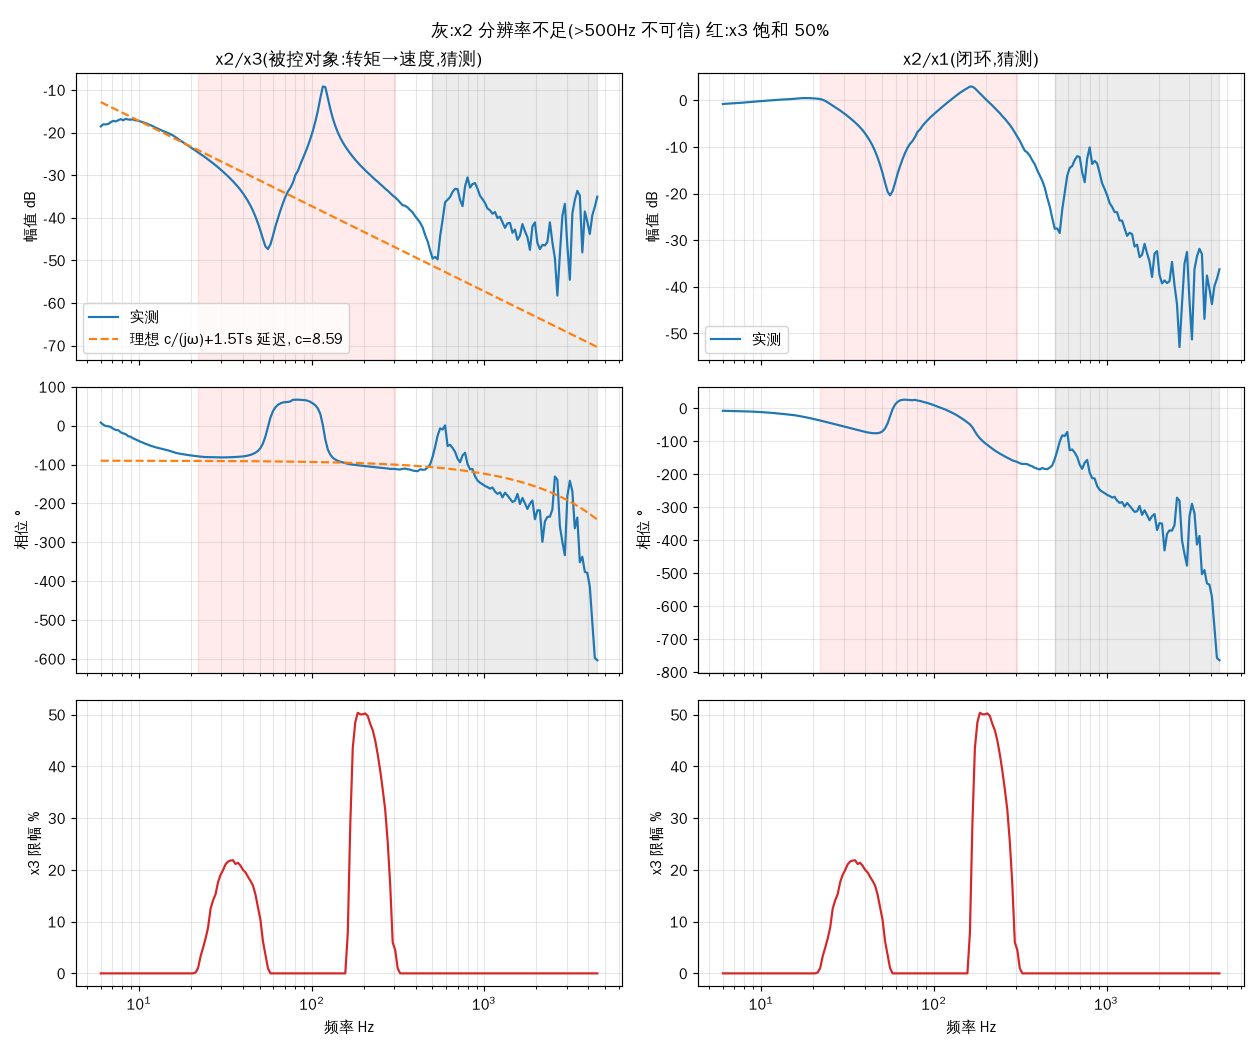
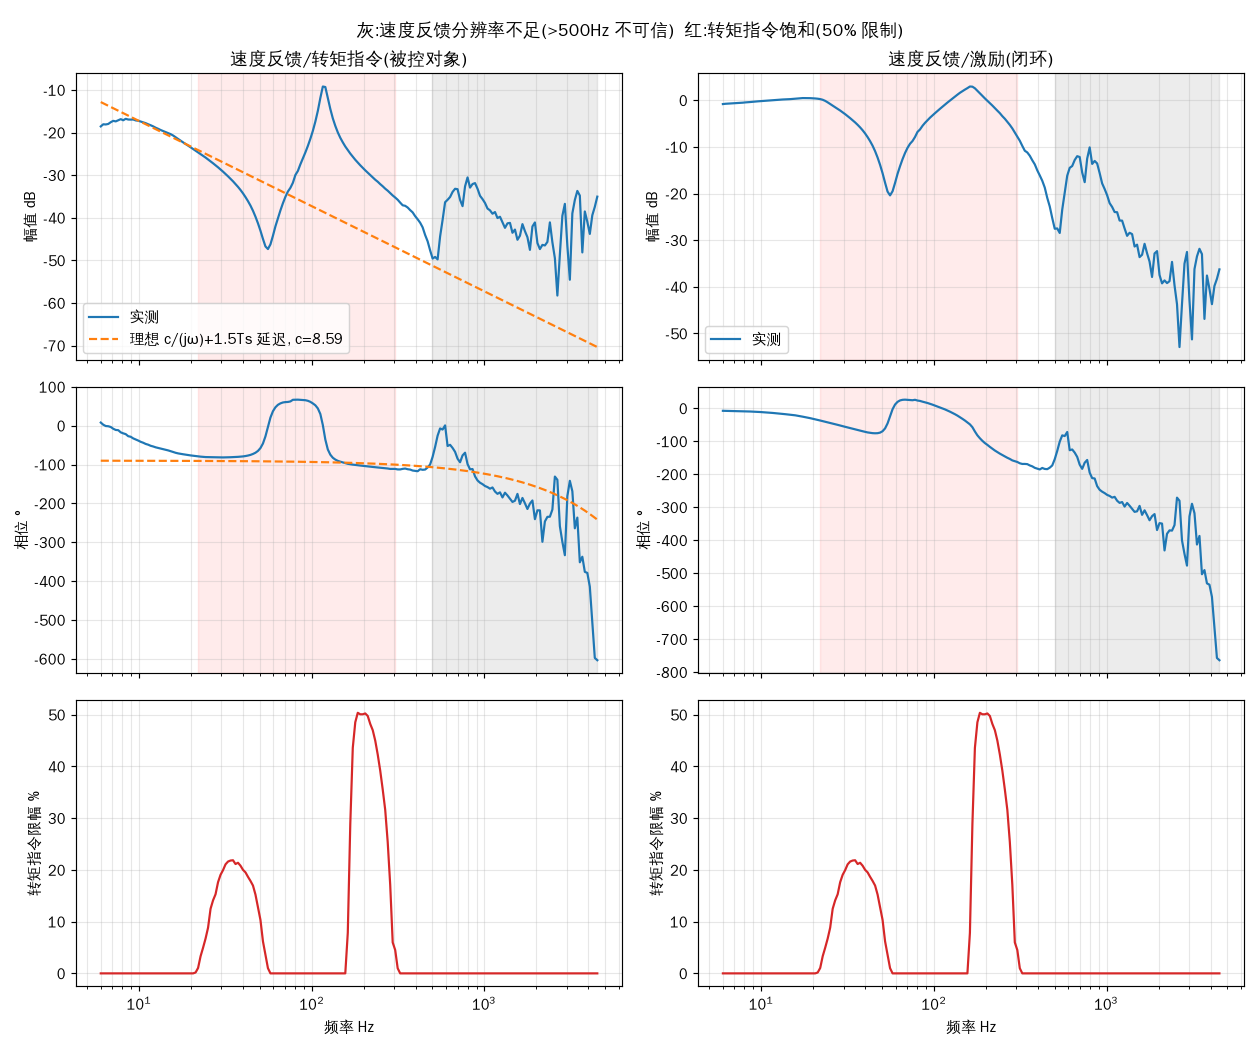
Use descriptive Chinese labels instead of x1/x2/x3 in plots
Claude-Session: https://claude.ai/code/session_01PxevCnqB8UYuwWaCSZuAZJ

Changed region(s): [[0.1857, 0.0, 0.8357, 0.061], [0.4952, 0.7619, 0.5262, 0.8533], [0.0, 0.7619, 0.031, 0.8533]]

diff --git a/out/sat_bode_compare.py b/out/sat_bode_compare.py
@@ -74,29 +74,29 @@ gs = fig.add_gridspec(4, 1, height_ratios=[1, .8, 1.5, .8], hspace=.5)
 ax = fig.add_subplot(gs[0])
 clip = np.abs(x3) >= thr
 ax.plot(t, x3, lw=.4, color=BLUE)
-ax.plot(t[clip], x3[clip], '.', ms=1.5, color=RED, label='clipped samples')
-ax.axhline(limit, color=RED, ls='--', lw=1); ax.axhline(-limit, color=RED, ls='--', lw=1, label=f'limit ±{limit:.3f}')
-ax.set(xlabel='t [s]', ylabel='x3', title='x3 (torque command) in time domain'); ax.legend(loc='upper right')
+ax.plot(t[clip], x3[clip], '.', ms=1.5, color=RED, label='被限幅的采样点')
+ax.axhline(limit, color=RED, ls='--', lw=1); ax.axhline(-limit, color=RED, ls='--', lw=1, label=f'转矩限制 ±{limit:.3f}')
+ax.set(xlabel='时间 [s]', ylabel='转矩指令', title='转矩指令时域波形'); ax.legend(loc='upper right')
 
 ax = fig.add_subplot(gs[1]); ax.semilogx(fq, 100 * sat, color=RED, lw=1.5); band(ax)
-ax.set(ylabel='clipped %', title='Fraction of x3 samples on the limit, per frequency')
+ax.set(ylabel='限幅占比 %', title='各频率处转矩指令被限幅的采样点占比')
 
 ax = fig.add_subplot(gs[2]); band(ax)
-ax.semilogx(fq, db(H31), color=BLUE, lw=1.6, label='x3/x1 measured (with saturation)')
-ax.semilogx(fq, db(Hc31), color=ORANGE, lw=1.6, ls='--', label='x3/x1 corrected (describing function)')
-ax.set(ylabel='magnitude [dB]', title='x3/x1 magnitude: measured vs corrected'); ax.legend(loc='upper right')
+ax.semilogx(fq, db(H31), color=BLUE, lw=1.6, label='实测(含限幅影响)')
+ax.semilogx(fq, db(Hc31), color=ORANGE, lw=1.6, ls='--', label='按限幅修正后(描述函数估算)')
+ax.set(ylabel='幅值 [dB]', title='转矩指令/激励 幅频:实测 vs 修正'); ax.legend(loc='upper right')
 ax.annotate(f'{err.max():.1f} dB', (fq[err.argmax()], db(Hc31)[err.argmax()]), (fq[err.argmax()] * 1.6, db(Hc31)[err.argmax()] - 10),
             arrowprops=dict(arrowstyle='-', color=GRAY), color='#222')
 
 ax = fig.add_subplot(gs[3]); band(ax); ax.semilogx(fq, err, color='#222', lw=1.5)
-ax.set(xlabel='Frequency [Hz]', ylabel='dB', title='Estimated magnitude error caused by saturation')
+ax.set(xlabel='频率 [Hz]', ylabel='dB', title='限幅造成的幅值误差(估算)')
 fig.savefig('sat_bode_compare.png', dpi=110, bbox_inches='tight')
 
 # second figure: which curves are affected
 fig2, axs = plt.subplots(2, 2, figsize=(11, 7), sharex=True)
-for j, (H, nm) in enumerate(((H23, 'x2/x3  plant (uses the actual clipped torque)'), (H21, 'x2/x1  closed loop (affected by clipping)'))):
-    axs[0, j].semilogx(fq, db(H), color=BLUE, lw=1.5); axs[0, j].set(title=nm, ylabel='magnitude [dB]')
-    axs[1, j].semilogx(fq, np.degrees(np.unwrap(np.angle(H))), color=BLUE, lw=1.5); axs[1, j].set(ylabel='phase [deg]', xlabel='Frequency [Hz]')
+for j, (H, nm) in enumerate(((H23, '速度反馈/转矩指令(被控对象,用的是实际被限幅的转矩)'), (H21, '速度反馈/激励(闭环,受限幅影响)'))):
+    axs[0, j].semilogx(fq, db(H), color=BLUE, lw=1.5); axs[0, j].set(title=nm, ylabel='幅值 [dB]')
+    axs[1, j].semilogx(fq, np.degrees(np.unwrap(np.angle(H))), color=BLUE, lw=1.5); axs[1, j].set(ylabel='相位 [°]', xlabel='频率 [Hz]')
     band(axs[0, j]); band(axs[1, j])
-fig2.suptitle('Shaded: saturated band. Above ~500 Hz x2 is quantisation-limited.', y=.995, fontsize=10)
+fig2.suptitle('色块:限幅频段。500 Hz 以上速度反馈分辨率不足,不可信。', y=.995, fontsize=10)
 fig2.tight_layout(); fig2.savefig('sat_bode_curves.png', dpi=110)

diff --git a/out/bode_guess.py b/out/bode_guess.py
@@ -20,7 +20,7 @@ c=10**(np.mean(db(P[m])+20*np.log10(w[m]))/20)   # |P|=c/w fitted at 8-25 Hz
 Pid=c/(1j*w)*np.exp(-1j*w*1.5/fs)
 bad=(fq>500)
 fig,ax=plt.subplots(3,2,figsize=(12,10),sharex=True)
-for j,(H,name,ideal) in enumerate(((P,'x2/x3(被控对象:转矩→速度,猜测)',Pid),(T21,'x2/x1(闭环,猜测)',None))):
+for j,(H,name,ideal) in enumerate(((P,'速度反馈/转矩指令(被控对象)',Pid),(T21,'速度反馈/激励(闭环)',None))):
     ax[0,j].semilogx(fq,db(H),label='实测');ax[1,j].semilogx(fq,pd(H))
     if ideal is not None:
         ax[0,j].semilogx(fq,db(ideal),'--',label=f'理想 c/(jω)+1.5Ts 延迟, c={c:.3g}');ax[1,j].semilogx(fq,pd(ideal),'--')
@@ -28,6 +28,6 @@ for j,(H,name,ideal) in enumerate(((P,'x2/x3(被控对象:转矩→速度,猜测
     for a in (ax[0,j],ax[1,j]):
         a.axvspan(500,4500,color='gray',alpha=.15);a.grid(True,which='both',alpha=.3)
         for lo,hi in ((fq[sat>0.01].min(),fq[sat>0.01].max()),):a.axvspan(lo,hi,color='r',alpha=.08)
-    ax[2,j].semilogx(fq,sat*100,c='C3');ax[2,j].set_ylabel('x3 限幅 %');ax[2,j].set_xlabel('频率 Hz');ax[2,j].grid(True,which='both',alpha=.3)
-fig.suptitle('灰:x2 分辨率不足(>500Hz 不可信) 红:x3 饱和 50%');plt.tight_layout();plt.savefig('bode_guess.png',dpi=105)
+    ax[2,j].semilogx(fq,sat*100,c='C3');ax[2,j].set_ylabel('转矩指令限幅 %');ax[2,j].set_xlabel('频率 Hz');ax[2,j].grid(True,which='both',alpha=.3)
+fig.suptitle('灰:速度反馈分辨率不足(>500Hz 不可信)  红:转矩指令饱和(50% 限制)');plt.tight_layout();plt.savefig('bode_guess.png',dpi=105)
 print('c',c)
